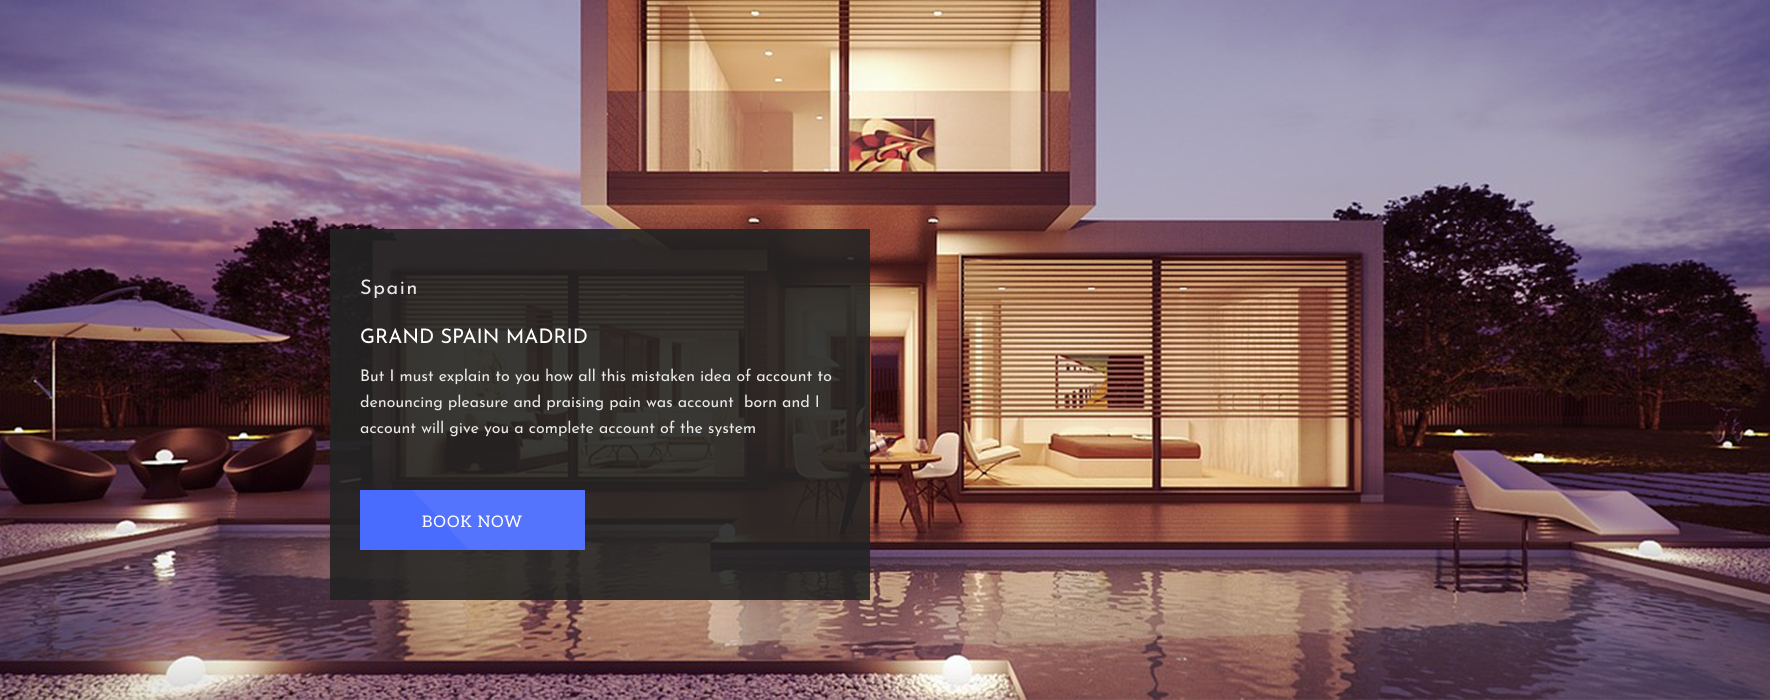
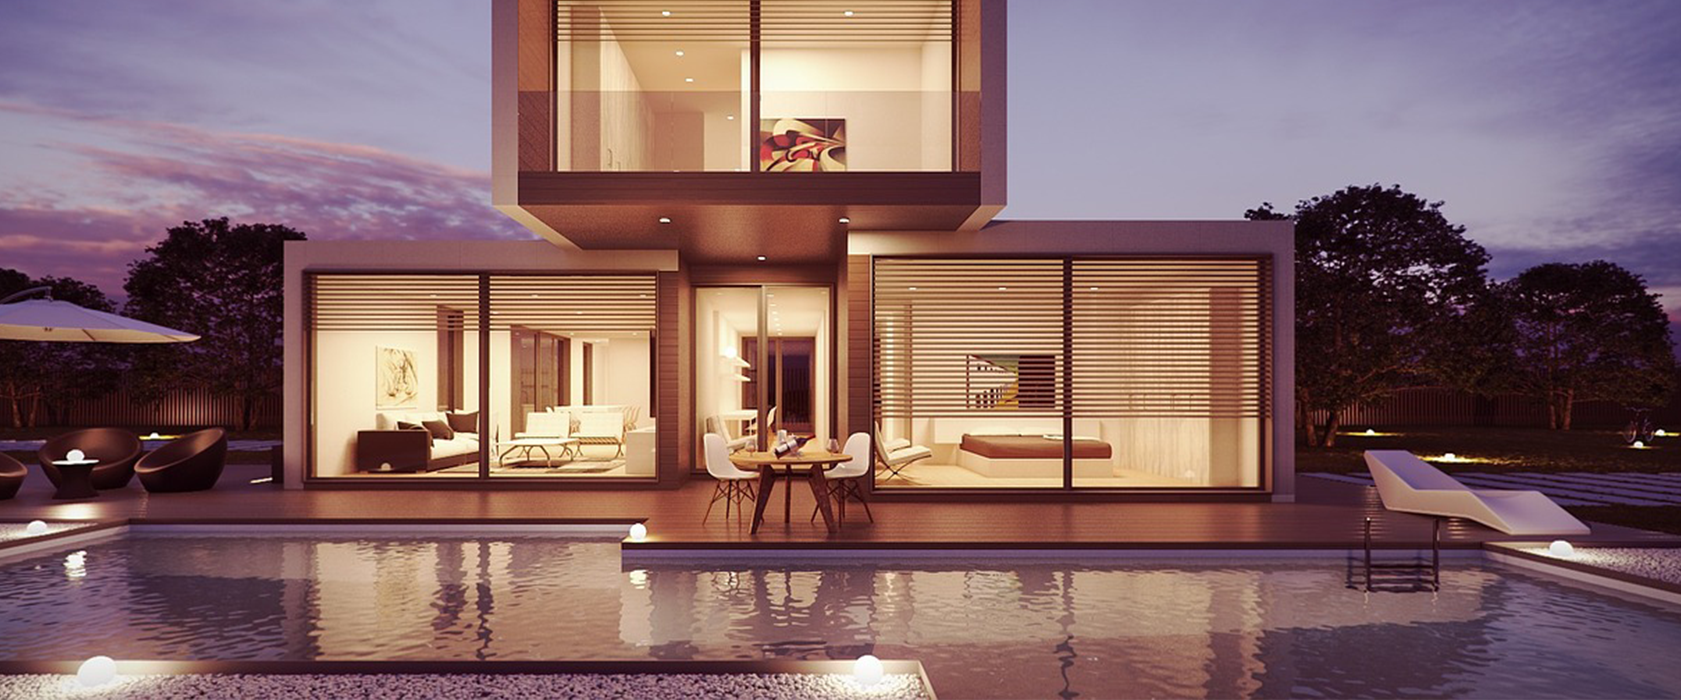
section 3 and 4

diff --git a/index.html b/index.html
@@ -43,7 +43,7 @@
                 <h2>Why Choose Us</h2>
                 <p>Tion and dislike men who are so beguiled and demoralized by desire by the charms of pleasure of the moment, so blinded by desire, that they cannot foresee </p>
                 <p>Ddislike men who are so beguiled and demoralized by the charms of pleasure of the moment, so blinded by desire, that.</p>
-                <button class="explore-places-btn">EXPLORE PLACES</button>
+                <button class="standard-btn">EXPLORE PLACES</button>
             </div>
             <div class="s2-image-container">
                 <div>
@@ -72,30 +72,32 @@
             </div>
          </div>
     </section>
-    <section>
-       <div class="s3-top">
-        <div class="s3-info-container">
-            <h4>Spain</h4>
-            <h3>GRAND SPAIN MADRID</h3>
-            <p>But I must explain to you how all this mistaken idea of account to denouncing pleasure and praising pain was account  born and I account will give you a complete account of the system</p>
-            <button>BOOK NOW</button>
-        </div>
-       </div>
-       <div class="s3-bottom">
-        <div class="s3-info-container">
-            <h4>Spain</h4>
-            <h3>GRAND SPAIN MADRID</h3>
-            <p>But I must explain to you how all this mistaken idea of account to denouncing pleasure and praising pain was account  born and I account will give you a complete account of the system</p>
-            <button>BOOK NOW</button>
-        </div>
+    <section class="s3">
+        <div class="placement-container1">
+            <div class="s3and4-info-container">
+                <h3>Spain</h3>
+                <h3>GRAND SPAIN MADRID</h3>
+                <p>But I must explain to you how all this mistaken idea of account to denouncing pleasure and praising pain was account  born and I account will give you a complete account of the system</p>
+                <button class="standard-btn">BOOK NOW</button>
+            </div>
        </div>
     </section>
+    <section class="s4">
+        <div class="placement-container2">
+            <div class="s3and4-info-container">
+                <h4>Spain</h4>
+                <h3>GRAND SPAIN MADRID</h3>
+                <p>But I must explain to you how all this mistaken idea of account to denouncing pleasure and praising pain was account  born and I account will give you a complete account of the system</p>
+                <button class="standard-btn">BOOK NOW</button>
+            </div>
+        </div>
+    </section>
     <section>
-        <div class="s4-content-container">
+        <div class="s5-content-container">
             <h2>What Our  Tourist Say</h2>
-            <div class="s4-image-quote-container">
+            <div class="s5-image-quote-container">
                 <img src="images/content/man-s4.png" alt="man looking at mountians">
-                <div class="s4-quote-container">
+                <div class="s5-quote-container">
                     <h4>SAM SUMON</h4>
                     <div>    
                         <i class="bx bxs-quote-left"></i>

diff --git a/styles/index.css b/styles/index.css
@@ -129,6 +129,22 @@ nav ul a:hover {
     font-weight: 700;
 }
 
+.standard-btn {
+    width: 14.25em;
+    height: 3.9375em;
+    background-color: var(--purple);
+    color: white;
+    border: none;
+}
+
+.standard-btn:hover {
+    cursor: pointer;
+}
+
+.standard-btn:active {
+    transform: scale(0.97);
+}
+
 /* ------------------------------SECTION 2-------------------------- */
 .s2-content-container {
     width: 100%;
@@ -137,7 +153,7 @@ nav ul a:hover {
     justify-content: center;
     align-items: center;
     background-image: url(/images/background-images/bg-s2.png);
-    background-size: cover;
+    background-size: 100% 100%;
 }
 
 .s2-text-container {
@@ -174,26 +190,10 @@ nav ul a:hover {
     align-items: flex-end;
 }
 
-.explore-places-btn {
-    width: 14.25em;
-    height: 3.9375em;
-    background-color: var(--purple);
-    color: white;
-    border: none;
-}
-
-.explore-places-btn:hover {
-    cursor: pointer;
-}
-
-.explore-places-btn:active {
-    transform: scale(0.97)
-}
-
 /* ------------------------------HOW IT WORKS-------------------------- */
 .how-it-works-container {
     width: 100%;
-    height: 25%;
+    height: 26%;
     padding: 1em 0 1em 0;
     background-color: var(--grey);
     display: flex;
@@ -248,9 +248,52 @@ nav ul a:hover {
     color: #00a2ff;
 }
 
+/* ------------------------------SECTION 3 and 4-------------------------- */
+.s3 {
+    background-image: url(/images/background-images/bg-s3-upper.png);
+    background-size: 100% 100%;
+    display: flex;
+}
 
+.s4 {
+    background-image: url(/images/background-images/bg-s3-lower.png);
+    background-size: 100% 100%;
+    display: flex;
+    justify-content: flex-end;
+}
 
+.placement-container1 {
+    width: 50%;
+    display: flex;
+    justify-content: flex-end;
+    align-items: flex-end;
+}
 
-/* ------------------------------SECTION 3-------------------------- */
-/* ------------------------------SECTION 4-------------------------- */
+.placement-container2 {
+    width: 50%;
+    display: flex;
+    align-items: flex-end;
+}
+
+.s3and4-info-container {
+    width: 33.9375em;
+    height: 23.375em;
+    background: #232323;
+    opacity: 0.9;
+    padding: 1em;
+    margin-bottom: 4em;
+
+    display: flex;
+    flex-direction: column;
+    justify-content: space-around;
+}
+
+.s3and4-info-container h3 {
+    font-size: 1.25em;
+}
+
+.s3and4-info-container p {
+    line-height: 1.625em;
+}
+/* ------------------------------SECTION 5-------------------------- */
 
